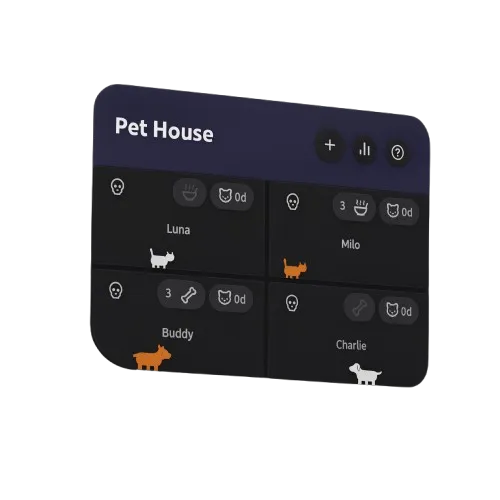
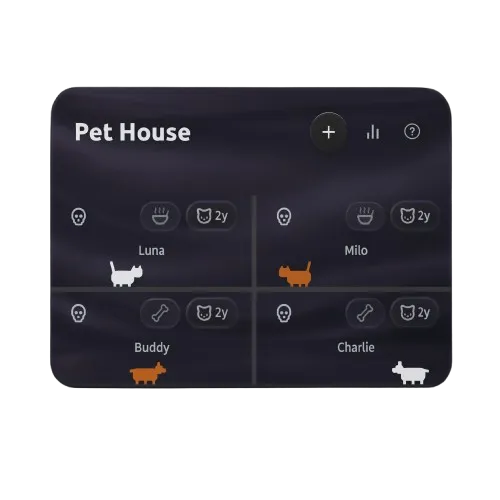
[UPDATE] version, add another size to badge and use it in changelog, update pet house mockups, and some overal fixes and improvements

Changed region(s): [[0.09, 0.15, 0.93, 0.78], [0.69, 0.48, 0.75, 0.51]]

diff --git a/src/components/ui/Badge.tsx b/src/components/ui/Badge.tsx
@@ -11,7 +11,7 @@ export interface BadgeProps extends HTMLAttributes<HTMLDivElement> {
     /**
      * The size of the badge. Automatically adjusts padding, gap, dot size, and typography.
      */
-    size?: 'sm' | 'md' | 'lg';
+    size?: 'xs' | 'sm' | 'md' | 'lg';
 
     /**
      * Optional dot indicator for status badges.
@@ -23,20 +23,28 @@ export interface BadgeProps extends HTMLAttributes<HTMLDivElement> {
 
 // 🌟 Configuration map mathematically aligned with BetterTypography scales
 const SIZE_CONFIG = {
+    xs: {
+        container: "px-2 py-0.75 gap-1", // 8px horiz, 2px vert, 4px gap
+        dot: "size-1",                    // 4px dot
+        typography: "xxs" as const,
+    },
+
     sm: {
         container: "px-2.5 py-1 gap-1", // 10px horiz, 4px vert, 4px gap
-        dot: "size-1.5",                // 6px dot
-        typography: "xs" as const,      // 10-12-14px scale
+        dot: "size-1.5",                 // 6px dot
+        typography: "xs" as const,
     },
+
     md: {
         container: "px-3.5 py-1.5 gap-1.5", // 14px horiz, 6px vert, 6px gap
-        dot: "size-2",                      // 8px dot
-        typography: "sm" as const,          // 12-14-16px scale
+        dot: "size-2",                       // 8px dot
+        typography: "sm" as const,
     },
+
     lg: {
         container: "px-4 py-2 gap-2", // 16px horiz, 8px vert, 8px gap
         dot: "size-2.5",              // 10px dot
-        typography: "md" as const,    // 12-16-20px scale
+        typography: "md" as const,
     },
 } as const;
 

diff --git a/src/components/features/updates/UpdatesPopup.tsx b/src/components/features/updates/UpdatesPopup.tsx
@@ -3,6 +3,7 @@ import { changelog, type ChangelogEntry } from '@/lib/changelog'
 import { ChevronRightIcon, XIcon } from 'lucide-react'
 import { format, parseISO } from 'date-fns'
 import Button from '@/components/ui/Button'
+import Badge from '@/components/ui/Badge'
 
 interface UpdatesPopupProps {
     onSelectEntry: (entry: ChangelogEntry) => void
@@ -52,9 +53,12 @@ export default function UpdatesPopupContent({ onSelectEntry, onOpenChange }: Upd
                                                     v{entry.version}
                                                 </span>
                                                 {index === 0 && (
-                                                    <span className="px-1.5 py-0.5 rounded-full bg-primary/15 text-primary text-[10px] font-medium leading-none">
+                                                    // <span className="px-1.5 py-0.5 rounded-full bg-primary/15 text-primary text-[10px] font-medium leading-none">
+                                                    //     Latest
+                                                    // </span>
+                                                    <Badge variant='default' size='xs'>
                                                         Latest
-                                                    </span>
+                                                    </Badge>
                                                 )}
                                             </div>
                                             {entry.date && (

diff --git a/src/components/features/updates/UpdateDetailModal.tsx b/src/components/features/updates/UpdateDetailModal.tsx
@@ -1,4 +1,5 @@
 import { BetterTypography } from '@/components/common/BetterTypography'
+import Badge from '@/components/ui/Badge'
 import ModalHeader from '@/components/ui/modal/ModalHeader'
 import ModalWrapper from '@/components/ui/modal/ModalWrapper'
 import type { ChangelogEntry } from '@/lib/changelog'
@@ -36,9 +37,10 @@ export default function UpdateDetailModal({ entry, onClose, isLatest }: UpdateDe
                     <>
                         <div className="flex items-center gap-2 flex-wrap">
                             {isLatest && (
-                                <span className="px-2 py-0.5 rounded-full bg-primary/15 text-primary text-[11px] font-medium">
+
+                                <Badge variant='default' size='sm'>
                                     Latest Release
-                                </span>
+                                </Badge>
                             )}
                             {entry.date && (
                                 <BetterTypography variant="xs" className="text-muted-foreground">

diff --git a/src/components/settings/components/CheckForUpdate.tsx b/src/components/settings/components/CheckForUpdate.tsx
@@ -28,7 +28,7 @@ export default function CheckForUpdate() {
 
         try {
             const res = await fetch(
-                "https://raw.githubusercontent.com/alizs10/aure-homepage-chrome-extension/main/version.json",
+                "https://raw.githubusercontent.com/alizs10/aure-homepage-chrome-extension/dev/version.json",
                 {
                     cache: "no-store",
                 }

diff --git a/src/components/features/network-status/NetworkStatus.tsx b/src/components/features/network-status/NetworkStatus.tsx
@@ -95,7 +95,7 @@ export default function NetworkStatus() {
         >
 
             <BetterTypography variant="12" weight="medium">
-                {isChecking ? "Checking..." : isOnline ? "Online" : "Offline"}
+                {isChecking ? "checking..." : isOnline ? "online" : "offline"}
             </BetterTypography>
         </Button>
     );

diff --git a/src/components/settings/components/modals/UpdateAvailableModal.tsx b/src/components/settings/components/modals/UpdateAvailableModal.tsx
@@ -42,7 +42,7 @@ export default function UpdateAvailableModal({
                     onClose={onClose}
                 />
 
-                <div className="space-y-1">
+                <div className="flex flex-col gap-1">
                     <BetterTypography
                         variant="md"
                         weight="medium"
